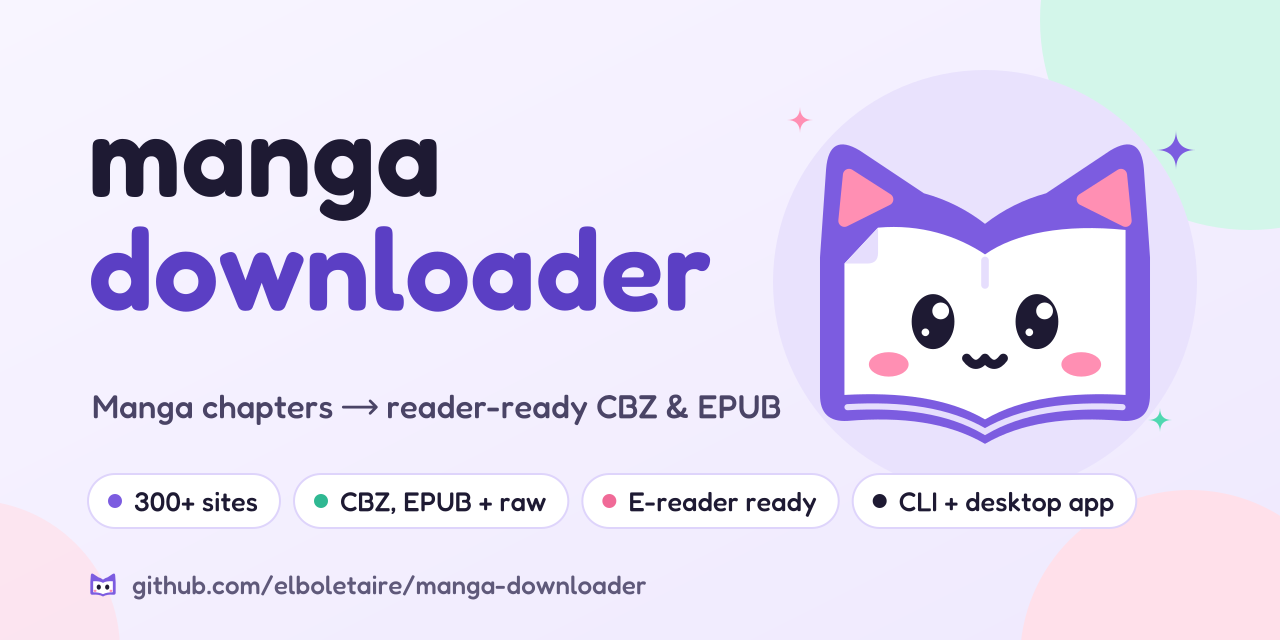
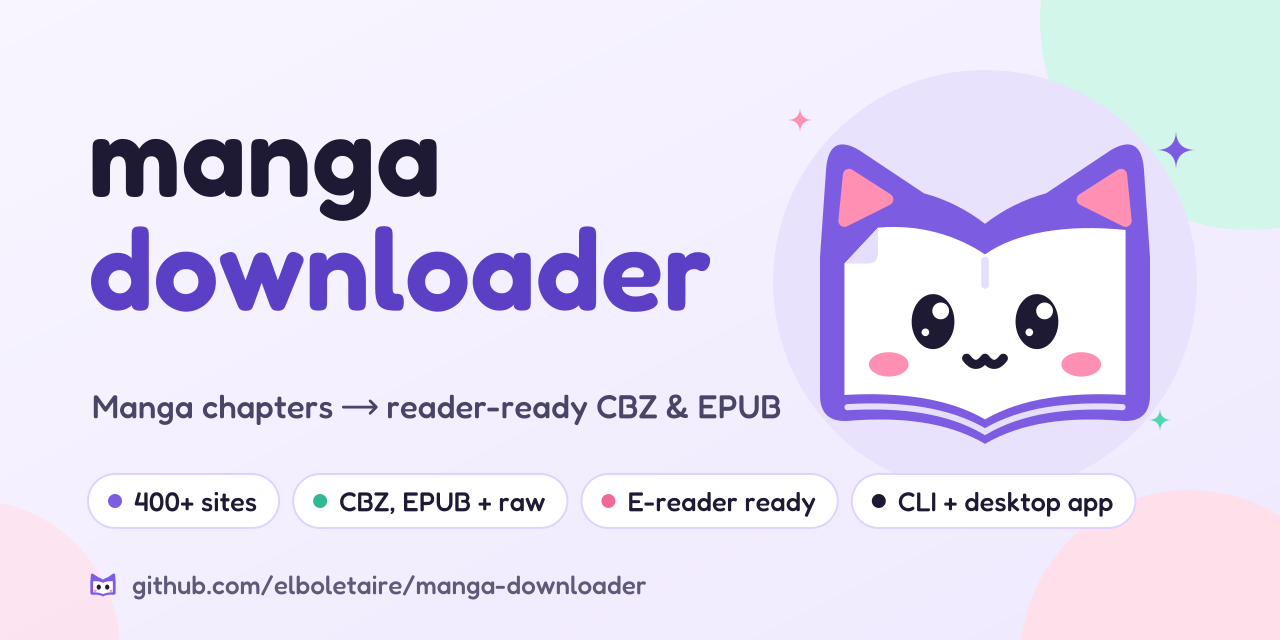
feat: support 56 more sites (no code needed) (#371)
* feat: support 56 more sites (no code needed)

refs #400

* docs(brand): say 400+ sites in the social preview

refs #400

refs #400

---------

diff --git a/README.md b/README.md
@@ -18,7 +18,7 @@
 
 </div>
 
-Manga Downloader downloads manga chapters from MangaDex and more than 350 other sites and
+Manga Downloader downloads manga chapters from MangaDex and more than 400 other sites and
 packs them into CBZ, CBR or EPUB files, ready to read on your e-reader or in
 your favorite comic app. It comes as a **desktop app** for Windows, macOS and
 Linux, and as a **command line tool** for scripts, servers and Docker.
@@ -47,7 +47,7 @@ Linux, and as a **command line tool** for scripts, servers and Docker.
 
 **Desktop app and command line**
 
-- **[353 supported sites](#supported-sites)**, from big aggregators to small
+- **[409 supported sites](#supported-sites)**, from big aggregators to small
   scanlation groups.
 - **Chapter ranges** such as `1,3,5-10`, so you download only what's missing.
 - **E-reader friendly output**: AVIF pages are converted to JPEG, so they don't
@@ -674,25 +674,31 @@ to a minute.
 ## Supported sites
 
 <details>
-<summary><b>Show all 353 supported sites</b></summary>
+<summary><b>Show all 409 supported sites</b></summary>
 <br>
 
 | Site | Notes | Last verified |
 | --- | --- | --- |
 | [02.ngomik.cc](https://02.ngomik.cc) | Indonesian | 2026-10-18 |
 | [108read.com](https://www.108read.com) | Thai | 2026-10-18 |
+| [2.komikindo.shop](https://2.komikindo.shop) | Indonesian, mostly NSFW, unrelated to komikindo.ch | 2026-10-18 |
 | [3asq.online](https://3asq.online) | Arabic, former 3asq.org | 2026-10-18 |
+| [4porncomic.com](https://4porncomic.com) | English, mostly NSFW | 2026-10-18 |
 | [afroditscans.com](https://afroditscans.com) | Turkish | 2026-10-18 |
+| [akanebanashimanga.website](https://akanebanashimanga.website) | English, single series | 2026-10-18 |
 | [akazascans.org](https://akazascans.org) | English | 2026-10-18 |
 | [allporncomic.io](https://allporncomic.io) | English, mostly NSFW | 2026-10-18 |
 | [amangaplanet.com.tr](https://www.amangaplanet.com.tr) | Turkish | 2026-10-18 |
 | [anikiga.com](https://anikiga.com) | Turkish | 2026-10-18 |
 | [animeallstar1.com](https://www.animeallstar1.com) | AnimeAllStar, Spanish | 2026-10-18 |
 | [animeallstar30.com](https://animeallstar30.com) | AnimeAllStar, Spanish | 2026-10-18 |
+| [animexnovel.com](https://www.animexnovel.com) | Portuguese, also novels | 2026-10-18 |
 | [anzmanga25.com](https://www.anzmanga25.com) | AnzManga, Spanish | 2026-10-18 |
 | [apcomics.org](https://apcomics.org) | English | 2026-10-18 |
 | [apollcomics.es](https://apollcomics.es) | Spanish | 2026-10-18 |
+| [arbxcomix.com](https://arbxcomix.com) | Arabic, mostly NSFW | 2026-10-18 |
 | [archiviumbar.com](https://archiviumbar.com) | Spanish | 2026-10-18 |
+| [arcurafansub.com](https://arcurafansub.com) | Turkish | 2026-10-18 |
 | [arenascan.com](https://arenascan.com) |  | 2026-10-18 |
 | [artlapsa.com](https://artlapsa.com) | English, locked chapters skipped | 2026-10-18 |
 | [asacomi.jp](https://asacomi.jp) | Japanese (Comici), locked chapters skipped | 2026-10-18 |
@@ -702,13 +708,19 @@ to a minute.
 | [asurascans.com](https://asurascans.com) | Asura Scans, former asuratoon.com | 2026-10-18 |
 | [athreascans.com](https://athreascans.com) | English | 2026-10-18 |
 | [atsu.moe](https://atsu.moe) | Atsumaru | 2026-10-18 |
+| [auntmanhwa.com](https://auntmanhwa.com) | English, mostly NSFW | 2026-10-18 |
 | [aurorascans.com](https://aurorascans.com) | redirects to qimanga.com | 2026-10-18 |
 | [azorafly.com](https://azorafly.com) | Azorafly, Arabic | 2026-10-18 |
+| [bacakomik.my](https://bacakomik.my) | Indonesian | 2026-10-18 |
+| [bananascans.com](https://bananascans.com) | English | 2026-10-18 |
+| [berserkkmanga.com](https://berserkkmanga.com) | English, single series, use a chapter URL | 2026-10-18 |
+| [beyondtheataraxia.com](https://www.beyondtheataraxia.com) | Italian | 2026-10-18 |
 | [bibibi-comic.com](https://bibibi-comic.com) | Japanese (Comici) | 2026-10-18 |
 | [bigcomics.jp](https://bigcomics.jp) | Japanese, Big Comics (Comici) | 2026-10-18 |
 | [bigsolo.org](https://bigsolo.org) |  | 2026-10-15 |
 | [blackcloveronline.com](https://blackcloveronline.com) | Black Clover | 2026-10-18 |
 | [bluesolo.org](https://bluesolo.org) | Blue Solo, French scantrad | 2026-10-18 |
+| [boruto2bluevortex.com](https://boruto2bluevortex.com) | English, single series | 2026-10-18 |
 | [bunmanga.com](https://bunmanga.com) | English | 2026-10-18 |
 | [bymichiby.com](https://bymichiby.com) | Spanish | 2026-10-18 |
 | [cafecomyaoi.com.br](https://cafecomyaoi.com.br) | Portuguese, mostly NSFW | 2026-10-18 |
@@ -743,15 +755,19 @@ to a minute.
 | [decadencescans.com](https://reader.decadencescans.com) | Decadence Scans, slow image host | 2026-10-18 |
 | [deathtollscans.net](https://reader.deathtollscans.net) |  | 2026-10-18 |
 | [demonicscans.org](https://demonicscans.org) | MangaDemon / Demonic Scans | 2026-10-18 |
+| [demonslayermanga.us.com](https://demonslayermanga.us.com) | English, single series, use a chapter URL | 2026-10-18 |
 | [divascans.org](https://divascans.org) | English, locked chapters skipped | 2026-10-18 |
 | [dojing.net](https://dojing.net) | Indonesian, mostly NSFW | 2026-10-18 |
 | [doodmanga.com](https://www.doodmanga.com) | Thai | 2026-10-18 |
+| [doujin-lc.net](https://doujin-lc.net) | Thai, mostly NSFW | 2026-10-18 |
 | [doujindistrict.com](https://doujindistrict.com) | English, mostly NSFW | 2026-10-18 |
 | [dragonballmangaa.com](https://dragonballmangaa.com) | Dragon Ball Super | 2026-10-18 |
+| [dragonballsupermanga.com](https://dragonballsupermanga.com) | English, single series, use a chapter URL | 2026-10-18 |
 | [dragontea.ink](https://dragontea.ink) \* |  | 2026-10-15 |
 | [dragontranslation.org](https://dragontranslation.org) | Spanish, mostly NSFW | 2026-10-18 |
 | [drakecomic.net](https://drakecomic.net) | Drake Scans, former drakecomic.org | 2026-10-15 |
 | [dynasty-scans.com](https://dynasty-scans.com) | Dynasty Reader | 2026-10-18 |
+| [ecchi-doujin.com](https://ecchi-doujin.com) | Thai, mostly NSFW | 2026-10-18 |
 | [eldermanga.com](https://eldermanga.com) |  | 2026-10-18 |
 | [elftoon.net](https://elftoon.net) | Elf Toon, former elftoon.com | 2026-10-18 |
 | [en-hijala.com](https://en-hijala.com) | Hijala Translations | 2026-10-18 |
@@ -770,6 +786,7 @@ to a minute.
 | [g-comi.jp](https://g-comi.jp) | Japanese (Comici), comic-medu.com redirects here | 2026-10-18 |
 | [gaiatoon.com](https://gaiatoon.com) | Turkish | 2026-10-18 |
 | [gakamangas.com](https://gakamangas.com) | English | 2026-10-18 |
+| [galaxscanlator.blogspot.com](https://galaxscanlator.blogspot.com) | Portuguese | 2026-10-18 |
 | [gdscans.com](https://gdscans.com) | GalaxyDegenScans | 2026-10-18 |
 | [genztoons.org](https://genztoons.org) | Genz Toon, former genzupdates.com | 2026-10-18 |
 | [ghostoon.com](https://ghostoon.com) | Turkish, mostly NSFW | 2026-10-18 |
@@ -786,11 +803,13 @@ to a minute.
 | [hayacomic.jp](https://hayacomic.jp) | Japanese (Comici) | 2026-10-18 |
 | [heavenly-delusion.com](https://heavenly-delusion.com) | Heavenly Delusion | 2026-10-18 |
 | [heavenmanga.com](https://heavenmanga.com) | Spanish | 2026-10-18 |
+| [hentai-origines.com](https://hentai-origines.com) | French, mostly NSFW | 2026-10-18 |
 | [hentai-scantrad.org](https://hentai-scantrad.org) | French, mostly NSFW | 2026-10-18 |
 | [hentai1.io](https://hentai1.io) | English, mostly NSFW | 2026-10-18 |
 | [hentai20.io](https://hentai20.io) | English, mostly NSFW | 2026-10-18 |
 | [hentaidesi.com](https://hentaidesi.com) | English, mostly NSFW | 2026-10-18 |
 | [hentaiteca.online](https://hentaiteca.online) | Portuguese, mostly NSFW | 2026-10-18 |
+| [hentaivn.show](https://hentaivn.show) | Vietnamese, mostly NSFW | 2026-10-18 |
 | [hentaixcomic.com](https://hentaixcomic.com) | English, mostly NSFW | 2026-10-18 |
 | [hentaixdickgirl.com](https://hentaixdickgirl.com) | English, mostly NSFW | 2026-10-18 |
 | [hentaixyuri.com](https://hentaixyuri.com) | English, mostly NSFW | 2026-10-18 |
@@ -799,6 +818,7 @@ to a minute.
 | [hivetoons.org](https://hivetoons.org) | HiveToons, VoidScans | 2026-10-15 |
 | [hotcabaretscan.com](https://hotcabaretscan.com) | Portuguese | 2026-10-18 |
 | [houseofotakusv2.xyz](https://houseofotakusv2.xyz) | Spanish | 2026-10-18 |
+| [ichi-the-witch.com](https://ichi-the-witch.com) | English, single series | 2026-10-18 |
 | [ichicomi.com](https://ichicomi.com) | Japanese, Ichi Comic (GigaViewer) | 2026-10-18 |
 | [infrafandub.com](https://infrafandub.com) | Spanish | 2026-10-18 |
 | [inmanga.com](https://inmanga.com) |  | 2026-10-18 |
@@ -808,6 +828,8 @@ to a minute.
 | [jestful.net](https://jestful.net) |  | 2026-10-18 |
 | [jojolandsmanga.com](https://jojolandsmanga.com) | The JoJoLands | 2026-10-18 |
 | [jujutsukaisenmanga.pro](https://jujutsukaisenmanga.pro) | Jujutsu Kaisen | 2026-10-18 |
+| [kaijunochapter.com](https://kaijunochapter.com) | English, single series | 2026-10-18 |
+| [kaliscan.org](https://kaliscan.org) | English, mostly NSFW | 2026-10-18 |
 | [kansai.mag-garden.co.jp](https://kansai.mag-garden.co.jp) | Japanese, Mag Garden Kansai (Comici) | 2026-10-18 |
 | [kanzenin.info](https://kanzenin.info) | Indonesian, mostly NSFW | 2026-10-18 |
 | [kappabeast.com](https://kappabeast.com) \* |  | 2026-10-15 |
@@ -826,10 +848,13 @@ to a minute.
 | [komikmu.top](https://komikmu.top) | Indonesian | 2026-10-18 |
 | [komikstation.org](https://komikstation.org) | Indonesian | 2026-10-18 |
 | [ksgroupscans.com](https://ksgroupscans.com) | KSGroupScans | 2026-10-18 |
+| [kumapoi.info](https://kumapoi.info) | Indonesian, mostly NSFW, doujinshi | 2026-10-18 |
 | [kuragebunch.com](https://kuragebunch.com) | Japanese, Kurage Bunch (GigaViewer) | 2026-10-18 |
 | [lagoonscans.com](https://lagoonscans.com) |  | 2026-10-18 |
 | [lectortaurus.com](https://lectortaurus.com) | Spanish | 2026-10-18 |
 | [leercapitulo.co](https://www.leercapitulo.co) |  | 2026-10-18 |
+| [leermanhwas.com](https://leermanhwas.com) | Spanish, mostly NSFW | 2026-10-18 |
+| [legionscans.com](https://legionscans.com) | Spanish | 2026-10-18 |
 | [leitor.borutoexplorer.com.br](https://leitor.borutoexplorer.com.br) | Portuguese | 2026-10-18 |
 | [leitor.kamisama.com.br](https://leitor.kamisama.com.br) | Portuguese | 2026-10-18 |
 | [lelmanga.com](https://www.lelmanga.com) | French | 2026-10-18 |
@@ -856,6 +881,7 @@ to a minute.
 | [mangabats.com](https://www.mangabats.com) | former mangabat.com | 2026-10-18 |
 | [mangaberri.com](https://mangaberri.com) |  | 2026-10-18 |
 | [mangabu.jp](https://mangabu.jp) | Japanese (Comici) | 2026-10-18 |
+| [mangacrazy.net](https://mangacrazy.net) | English, mostly NSFW | 2026-10-18 |
 | [mangadelsiglotvmanga.com.mx](https://www.mangadelsiglotvmanga.com.mx) | Manga del Siglo TV Manga, Spanish | 2026-10-18 |
 | [mangadenizi.net](https://www.mangadenizi.net) |  | 2026-10-18 |
 | [mangadex.org](https://mangadex.org) | MangaDex | 2026-10-18 |
@@ -875,6 +901,7 @@ to a minute.
 | [mangalib.me](https://mangalib.me) | MangaLib | 2026-10-15 |
 | [mangalivre.to](https://mangalivre.to) | Manga Livre, former mangalivre.tv/mangalivre.net | 2026-10-18 |
 | [mangalt.jp](https://mangalt.jp) | Japanese (Comici) | 2026-10-18 |
+| [mangamaniacs.org](https://mangamaniacs.org) | English, mostly NSFW, yaoi | 2026-10-18 |
 | [manganato.gg](https://www.manganato.gg) \* | MangaNato | 2026-10-18 |
 | [mangaowl.io](https://mangaowl.io) | English | 2026-10-18 |
 | [mangapark.cc](https://mangapark.cc) | MangaPark | 2026-10-18 |
@@ -900,6 +927,7 @@ to a minute.
 | [manhuahot.com](https://manhuahot.com) | English | 2026-10-18 |
 | [manhuanext.com](https://manhuanext.com) | English | 2026-10-18 |
 | [manhuaplus.com](https://manhuaplus.com) |  | 2026-10-18 |
+| [manhuathai.com](https://www.manhuathai.com) | Thai | 2026-10-18 |
 | [manhuatop.org](https://manhuatop.org) \* |  | 2026-10-15 |
 | [manhuaus.com](https://manhuaus.com) \* |  | 2026-10-15 |
 | [manhwa-online.com](https://manhwa-online.com) | Spanish | 2026-10-18 |
@@ -913,15 +941,19 @@ to a minute.
 | [manhwareads.com](https://manhwareads.com) | English | 2026-10-18 |
 | [manhwatop.com](https://manhwatop.com) | MANHWATOP | 2026-10-18 |
 | [mgeko.cc](https://www.mgeko.cc) |  | 2026-10-18 |
+| [mhscans.com](https://mhscans.com) | Spanish | 2026-10-18 |
 | [mihentai.net](https://mihentai.net) | Indonesian, mostly NSFW | 2026-10-18 |
 | [mindafansub.dev](https://mindafansub.dev) | Turkish, mostly NSFW | 2026-10-18 |
 | [mistscans.com](https://mistscans.com) |  | 2026-10-18 |
 | [mkissa.to](https://mkissa.to) \* |  | 2026-10-15 |
 | [monopolymanhua.com](https://monopolymanhua.com) | Spanish | 2026-10-18 |
 | [montetaiscanlator.xyz](https://montetaiscanlator.xyz) | Portuguese | 2026-10-18 |
+| [mrtenzus.com](https://mrtenzus.com) | Portuguese | 2026-10-18 |
 | [mundomanhwa.com](https://mundomanhwa.com) | Spanish | 2026-10-18 |
+| [myreadingcomic.com](https://myreadingcomic.com) | English, mostly NSFW | 2026-10-18 |
 | [nabicix.com](https://www.nabicix.com) | Turkish, former nabimanga.com | 2026-10-18 |
 | [namicomic.jp](https://namicomic.jp) | Japanese (Comici) | 2026-10-18 |
+| [narasininja.net](https://narasininja.net) | Indonesian | 2026-10-18 |
 | [natomanga.com](https://www.natomanga.com) \* | MangaNato, former manganato.com/manganelo.com | 2026-10-15 |
 | [natsu.one](https://natsu.one) | NatsuID, Indonesian, some adult titles, former natsu.id | 2026-10-18 |
 | [nebulosascan.com](https://nebulosascan.com) | Portuguese | 2026-10-18 |
@@ -933,17 +965,23 @@ to a minute.
 | [nocfsb.com](https://nocfsb.com) | Portuguese, mostly NSFW | 2026-10-18 |
 | [noranofansub.com](https://www.noranofansub.com) | NoraNoFansub, Spanish | 2026-10-18 |
 | [noromax02.my.id](https://noromax02.my.id) | Indonesian | 2026-10-18 |
+| [novelcrow.com](https://novelcrow.com) | English, mostly NSFW, Western comics | 2026-10-18 |
 | [ntr-manga.net](https://www.ntr-manga.net) | Thai, mostly NSFW | 2026-10-18 |
 | [nyanukafe.com](https://nyanukafe.com) | English | 2026-10-18 |
 | [nyraxmanga.com](https://nyraxmanga.com) | Nyrax, some adult titles | 2026-10-18 |
 | [nyxscans.com](https://nyxscans.com) | English, locked chapters skipped | 2026-10-18 |
 | [octopusmanga.com](https://octopusmanga.com) | English | 2026-10-18 |
+| [omniscientreadersviewpointt.com](https://omniscientreadersviewpointt.com) | English, single series, use a chapter URL | 2026-10-18 |
+| [onepunchmannmanga.com](https://onepunchmannmanga.com) | English, single series, use a chapter URL | 2026-10-18 |
+| [onlinechainsawmanmanga.us](https://onlinechainsawmanmanga.us) | English, single series, use a chapter URL | 2026-10-18 |
 | [onma.top](https://onma.top) | Arabic | 2026-10-18 |
 | [oremanga.net](https://www.oremanga.net) | Oremanga, Thai | 2026-10-18 |
 | [orion-scans.com](https://orion-scans.com) | English, locked chapters skipped | 2026-10-18 |
+| [orvmanhwa.online](https://orvmanhwa.online) | English, single series, use a chapter URL | 2026-10-18 |
 | [ourfeel.jp](https://ourfeel.jp) | Japanese, Our Feel (GigaViewer) | 2026-10-18 |
 | [paradise-bl.com](https://paradise-bl.com) | Arabic | 2026-10-18 |
 | [piacomic.jp](https://piacomic.jp) | Japanese (Comici) | 2026-10-18 |
+| [plumacomics.com](https://plumacomics.com) | Portuguese | 2026-10-18 |
 | [pornhwaz.com](https://www.pornhwaz.com) | English, mostly NSFW | 2026-10-18 |
 | [projectsuki.com](https://projectsuki.com) |  | 2026-10-18 |
 | [qimanga.com](https://qimanga.com) |  | 2026-10-18 |
@@ -953,6 +991,10 @@ to a minute.
 | [rawdex.net](https://rawdex.net) | mostly NSFW | 2026-10-18 |
 | [rawkuma.net](https://rawkuma.net) |  | 2026-10-18 |
 | [re-yume.my.id](https://www.re-yume.my.id) | Re-Yume, Indonesian | 2026-10-18 |
+| [reader.mangatellers.gr](https://reader.mangatellers.gr) | Greek | 2026-10-18 |
+| [reader.seinagi.org.es](https://reader.seinagi.org.es) | English | 2026-10-18 |
+| [readkagura.com](https://readkagura.com) | English, single series | 2026-10-18 |
+| [readspyxfamilymanga.com](https://readspyxfamilymanga.com) | English, single series, use a chapter URL | 2026-10-18 |
 | [reapertrans.com](https://reapertrans.com) | Thai | 2026-10-18 |
 | [ritharscans.com](https://ritharscans.com) |  | 2026-10-18 |
 | [rizzfables.com](https://rizzfables.com) |  | 2026-10-18 |
@@ -977,6 +1019,7 @@ to a minute.
 | [sing-manga.com](https://www.sing-manga.com) | Thai | 2026-10-18 |
 | [slow-manga.net](https://www.slow-manga.net) | Thai | 2026-10-18 |
 | [speed-manga.net](https://speed-manga.net) | Thai | 2026-10-18 |
+| [springtoons.com](https://springtoons.com) | English, mostly NSFW, BL | 2026-10-18 |
 | [stonescape.xyz](https://stonescape.xyz) |  | 2026-10-18 |
 | [studio.booklista.co.jp](https://studio.booklista.co.jp) | Japanese (Comici), mostly NSFW | 2026-10-18 |
 | [sunday-webry.com](https://www.sunday-webry.com) | Japanese, Sunday Webry (GigaViewer) | 2026-10-18 |
@@ -989,9 +1032,12 @@ to a minute.
 | [tcbonepiecechapters.com](https://tcbonepiecechapters.com) | TCB Scans, former tcbscans.com | 2026-10-18 |
 | [team-shadowi.com](https://www.team-shadowi.com) \* |  | 2026-10-18 |
 | [templetoons.com](https://templetoons.com) \* | Temple Scan | 2026-10-15 |
+| [tenshimanga.com](https://tenshimanga.com) | Turkish | 2026-10-18 |
+| [thaimanga.net](https://www.thaimanga.net) | Thai | 2026-10-18 |
 | [the-apothecary-diaries.com](https://the-apothecary-diaries.com) | The Apothecary Diaries | 2026-10-18 |
 | [tilkiscans.com](https://www.tilkiscans.com) | Turkish | 2026-10-18 |
 | [timelesstoons.org](https://timelesstoons.org) | English | 2026-10-18 |
+| [tmomanhwa.com](https://tmomanhwa.com) | Spanish, mostly NSFW | 2026-10-18 |
 | [tonarinoyj.jp](https://tonarinoyj.jp) | Japanese, Young Jump (GigaViewer) | 2026-10-18 |
 | [toomtam-manga.com](https://toomtam-manga.com) | Thai | 2026-10-18 |
 | [toongod.org](https://www.toongod.org) \* |  | 2026-10-15 |
@@ -1010,22 +1056,32 @@ to a minute.
 | [uchuujinmangas.com](https://uchuujinmangas.com) | Spanish | 2026-10-18 |
 | [undertranslations.com](https://undertranslations.com) | Spanish | 2026-10-18 |
 | [utoon.us](https://www.utoon.us) | UToon, home of reset-scans' content | 2026-10-18 |
+| [utsukushii-bg.com](https://utsukushii-bg.com) | Bulgarian | 2026-10-18 |
 | [uzaymanga.com](https://uzaymanga.com) |  | 2026-10-18 |
+| [v7.kiryuu.to](https://v7.kiryuu.to) | Indonesian | 2026-10-18 |
 | [valirscans.org](https://valirscans.org) | English, locked chapters skipped | 2026-10-18 |
 | [vermanhwa.com](https://vermanhwa.com) | Spanish | 2026-10-18 |
+| [vinlandsaga.website](https://vinlandsaga.website) | English, single series | 2026-10-18 |
 | [violetscans.org](https://violetscans.org) |  | 2026-10-18 |
 | [vortexscans.org](https://vortexscans.org) |  | 2026-10-18 |
+| [w14.punchonemanga.com](https://w14.punchonemanga.com) | English, single series | 2026-10-18 |
+| [w2.omniscient-readers-viewpoint.online](https://w2.omniscient-readers-viewpoint.online) | English, single series | 2026-10-18 |
 | [w2.ruridragon.com](https://w2.ruridragon.com) | English, single series | 2026-10-18 |
+| [w22.thebeginningaftertheendmanga.com](https://w22.thebeginningaftertheendmanga.com) | English, single series | 2026-10-18 |
+| [w27.onepunchman-manga.net](https://w27.onepunchman-manga.net) | English, single series | 2026-10-18 |
+| [w50.blue-lock-manga.com](https://w50.blue-lock-manga.com) | English, single series | 2026-10-18 |
 | [w9.kaijimanga.com](https://w9.kaijimanga.com) | English, single series | 2026-10-18 |
 | [webtoonia.fun](https://webtoonia.fun) | Turkish, former diamondfansub.com, some NSFW | 2026-10-18 |
 | [webtoons.com](https://www.webtoons.com) | WEBTOON, free episodes only | 2026-10-18 |
 | [weebcentral.com](https://weebcentral.com) |  | 2026-10-18 |
 | [witchtoons.net](https://witchtoons.net) | WitchToons, former witchscans.com | 2026-10-18 |
 | [writerscans.com](https://writerscans.com) |  | 2026-10-18 |
+| [ww1.the-blue-lock.com](https://ww1.the-blue-lock.com) | English, single series, use a chapter URL | 2026-10-18 |
 | [xn--l3c0azab5a2gta.com](https://www.xn--l3c0azab5a2gta.com) | Thai | 2026-10-18 |
 | [yakshacomics.com](https://yakshacomics.com) | English | 2026-10-18 |
 | [yaoiflix.fit](https://yaoiflix.fit) | Turkish, mostly NSFW | 2026-10-18 |
 | [yaoihub.org](https://yaoihub.org) | English, mostly NSFW | 2026-10-18 |
+| [yaoiscan.org](https://yaoiscan.org) | English, mostly NSFW, BL | 2026-10-18 |
 | [younganimal.com](https://younganimal.com) | Japanese, Young Animal (Comici) | 2026-10-18 |
 | [youngchampion.jp](https://youngchampion.jp) | Japanese (Comici) | 2026-10-18 |
 | [yuri-online.com](https://yuri-online.com) | Spanish, mostly NSFW | 2026-10-18 |
@@ -1085,7 +1141,7 @@ make build/gui/windows # cross-build manga-downloader-gui.exe, no cgo needed
 
 AI tools have changed what this project can be. For years, manga-downloader
 gained maybe one site a year. With AI, it grew a desktop app and went from 10
-supported sites to over 300 in a matter of days.
+supported sites to over 400 in a matter of days.
 
 It isn't "vibe coded", though. Its foundations, the way sites are plugged in
 and how chapters are fetched and packed, are the ones I wrote by hand long
